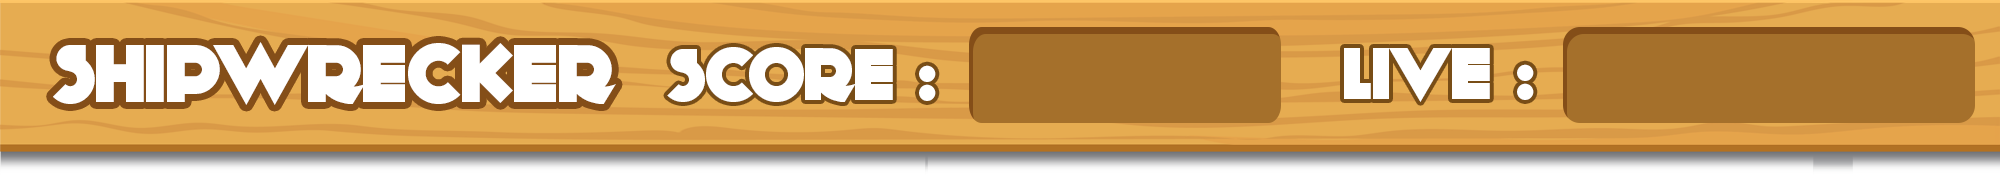
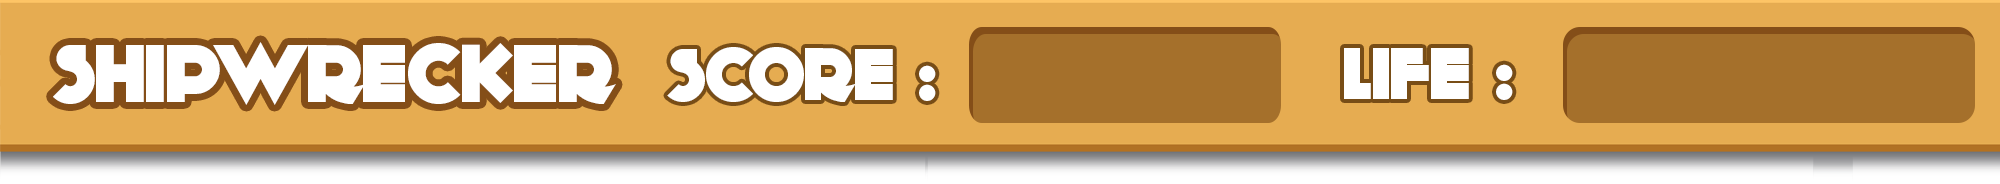
add life of boat and make damage when hit the rock

Changed region(s): [[0.682, 0.2446, 0.775, 0.5707]]

diff --git a/src/PlaySceneLayer.js b/src/PlaySceneLayer.js
@@ -8,22 +8,24 @@ var PlaySceneLayer = cc.LayerColor.extend({
 		this.addChild(this.bgAnimation);
 		this.bgAnimation.setPosition(new cc.Point(1000, 750));
 
-		this.boat_1 = new boat();
-		this.addChild(this.boat_1, 1);
-		this.boat_1.scheduleUpdate();
-		this.boat_1.setPosition(new cc.Point(1000, 5));
+		this.createBoat();
 
 		this.StatusBar = new StatusBar();
 		this.addChild( this.StatusBar , 2);
 		this.StatusBar.setPosition( new cc.Point (1000 , 1408 ));
-		
+
 		this.Score = new Score();
-		this.addChild( this.Score , 3);
+		this.addChild( this.Score , 3 );
 		this.Score.setPosition( new cc.Point ( 1130 , 1420));
 		this.Score.scheduleUpdate();
 
+		this.Life = new Life();
+		this.addChild( this.Life , 3 );
+		this.Life.setPosition( new cc.Point ( 1767.5 , 1423 ));
+
 		this.hitSeaweedFirstTime = false;
 		this.hitFishingNetFirstTime = false;
+		this.gameOver = false ;
 
 		this.obstacles = [];
 
@@ -35,11 +37,14 @@ var PlaySceneLayer = cc.LayerColor.extend({
 	},
 
 	update : function (){
-		for (var i = 0 ; i < this.obstacles.length ; i++){
-			if ( this.obstacles[i].closeTo( this.boat_1 )){
+		if ( this.Life.life == 0){
+			this.gameOver = true;
+			this.pauseGame();
+		}
+		for (var i = 0 ; i < this.obstacles.length && this.gameOver == false ; i++){
+			if ( this.obstacles[i].closeTo( this.boat )){
 				if (this.obstacles[i] instanceof rock ){
-					this.obstacles[i].effect( this.boat_1 );
-					this.pauseGame();
+					this.effectWhenHitRock( this.obstacles[i] );
 
 				} else if ( this.obstacles[i] instanceof Seaweed )
 					this.effectWhenHitSeaweed( this.obstacles[i] );
@@ -63,7 +68,7 @@ var PlaySceneLayer = cc.LayerColor.extend({
 		} else {
 			this.bgEffectSeaweed.fadeIn();
 		}
-		obj.effect( this.boat_1 );
+		obj.effect( this.boat );
 		this.bgEffectSeaweed.fadeOut();
 
 	},
@@ -75,16 +80,22 @@ var PlaySceneLayer = cc.LayerColor.extend({
 		} else {
 			this.bgEffectFishingNet.fadeIn();
 		}
-		obj.effect( this.boat_1 );
+		obj.effect( this.boat );
 		this.bgEffectFishingNet.fadeOut();
 
 
 	},
-	
+
 	effectWhenHitTreasure : function ( obj ){
 		obj.effect();
-		this.Score.score += 1;
+		this.Score.getScore();
 	},
+
+	effectWhenHitRock : function ( obj ){
+		obj.effect();
+		this.Life.damage();
+	},
+
 
 	createBgEffectFishingNet : function(){
 		this.bgEffectFishingNet = new BgEffectFishingNet();
@@ -96,6 +107,13 @@ var PlaySceneLayer = cc.LayerColor.extend({
 		this.bgEffectSeaweed = new BgEffectSeaweed();
 		this.addChild( this.bgEffectSeaweed ); 
 		this.bgEffectSeaweed.setPosition( new cc.Point ( width/2 , height/2 ));
+	},
+
+	createBoat : function(){
+		this.boat = new boat();
+		this.addChild(this.boat, 1);
+		this.boat.scheduleUpdate();
+		this.boat.setPosition(new cc.Point(1000, 5));
 	},
 
 	createObstacles : function() {
@@ -161,18 +179,17 @@ var PlaySceneLayer = cc.LayerColor.extend({
 	},
 
 	onKeyDown : function(keyCode, event) {
-		if (keyCode == cc.KEY.space) {
+		if (keyCode == cc.KEY.space && this.gameOver == false ) {
 			for (var i = 0; i < this.obstacles.length; i++) {
 				this.obstacles[i].start = true;
 			}
 			this.checkMoveRight = true;
-			if (this.boat_1.checkMoveRight == false
-					&& this.boat_1.checkMoveLeft == true) {
-				this.boat_1.checkMoveLeft = false;
-				this.boat_1.checkMoveRight = true;
+			if (this.boat.checkMoveRight == false && this.boat.checkMoveLeft == true) {
+				this.boat.checkMoveLeft = false;
+				this.boat.checkMoveRight = true;
 			} else {
-				this.boat_1.checkMoveLeft = true;
-				this.boat_1.checkMoveRight = false;
+				this.boat.checkMoveLeft = true;
+				this.boat.checkMoveRight = false;
 			}
 		}
 
@@ -186,8 +203,8 @@ var PlaySceneLayer = cc.LayerColor.extend({
 	},
 
 	pauseGame : function (){
-		this.boat_1.checkMoveLeft = false;
-		this.boat_1.checkMoveRight = false;
+		this.boat.checkMoveLeft = false;
+		this.boat.checkMoveRight = false;
 		for (var i = 0 ; i < this.obstacles.length ; i++){
 			this.obstacles[i].start = false;
 		}

diff --git a/src/Score.js b/src/Score.js
@@ -4,32 +4,36 @@ var Score = cc.Node.extend({
 		this.score = 0 ;
 		
 		this.firstDigit = cc.Sprite.create();
-		this.firstDigit.setPosition( cc.p( -90 , 0 ) );
+		this.firstDigit.setPosition( cc.p( -90 , 5 ) );
 		this.addChild( this.firstDigit );
 		
 		this.secondDigit = cc.Sprite.create();
-		this.secondDigit.setPosition( cc.p( -30 , 0 ) );
+		this.secondDigit.setPosition( cc.p( -30 , 5 ) );
 		this.addChild( this.secondDigit );
 		
 		this.thirdDigit = cc.Sprite.create();
-		this.thirdDigit.setPosition( cc.p( 30, 0 ) );
+		this.thirdDigit.setPosition( cc.p( 30, 5 ) );
 		this.addChild( this.thirdDigit );
 		
-		this.fouthDigit = cc.Sprite.create();
-		this.fouthDigit.setPosition( cc.p( 90, 0 ) );
-		this.addChild( this.fouthDigit );
+		this.fourthDigit = cc.Sprite.create();
+		this.fourthDigit.setPosition( cc.p( 90, 5 ) );
+		this.addChild( this.fourthDigit );
 		
 		this.firstDigit.initWithFile( scoreNumber[0] );
 		this.secondDigit.initWithFile( scoreNumber[0] );
 		this.thirdDigit.initWithFile( scoreNumber[0] );
-		this.fouthDigit.initWithFile( scoreNumber[0] );
+		this.fourthDigit.initWithFile( scoreNumber[0] );
 		
 	},
 	update : function(){
 		this.firstDigit.initWithFile( scoreNumber[ parseInt( this.score/1000 ) ]);
 		this.secondDigit.initWithFile( scoreNumber[ parseInt( this.score/100 ) ]);
 		this.thirdDigit.initWithFile( scoreNumber[ parseInt( this.score/10 ) ]);
-		this.fouthDigit.initWithFile( scoreNumber[ this.score%10 ]);
+		this.fourthDigit.initWithFile( scoreNumber[ this.score%10 ]);
+	},
+	
+	getScore : function(){
+		this.score += 1;
 	}
 	
 });

diff --git a/src/resource.js b/src/resource.js
@@ -19,6 +19,7 @@ var res = {
     bg_effect_seaweed : "res/images/bgEffectSeaweed.png",
     bg_effect_fishingNet : "res/images/bgEffectFishingNet.png",
     statusbar : "res/images/statusBar.png",
+    life : "res/images/life.png"
     
     
     
@@ -29,6 +30,6 @@ for (var i in res) {
     g_resources.push(res[i]);
 }
 
-for (var i in arrayNum){
-	g_resources.push(arrayNum[i]);
+for (var i in scoreNumber){
+	g_resources.push(scoreNumber[i]);
 }

diff --git a/src/rock.js b/src/rock.js
@@ -32,7 +32,7 @@ var rock = cc.Sprite.extend({
 		return ( ( Math.abs( myPos.x - oPos.x ) <= 100 ) &&
 				( Math.abs( myPos.y - (oPos.y+176) ) <= 70 ) );
 	},
-	effect : function( obj ){
-		
+	effect : function(){
+		this.setPosition( -100 , this.getPosition().y );
 	}
 });
